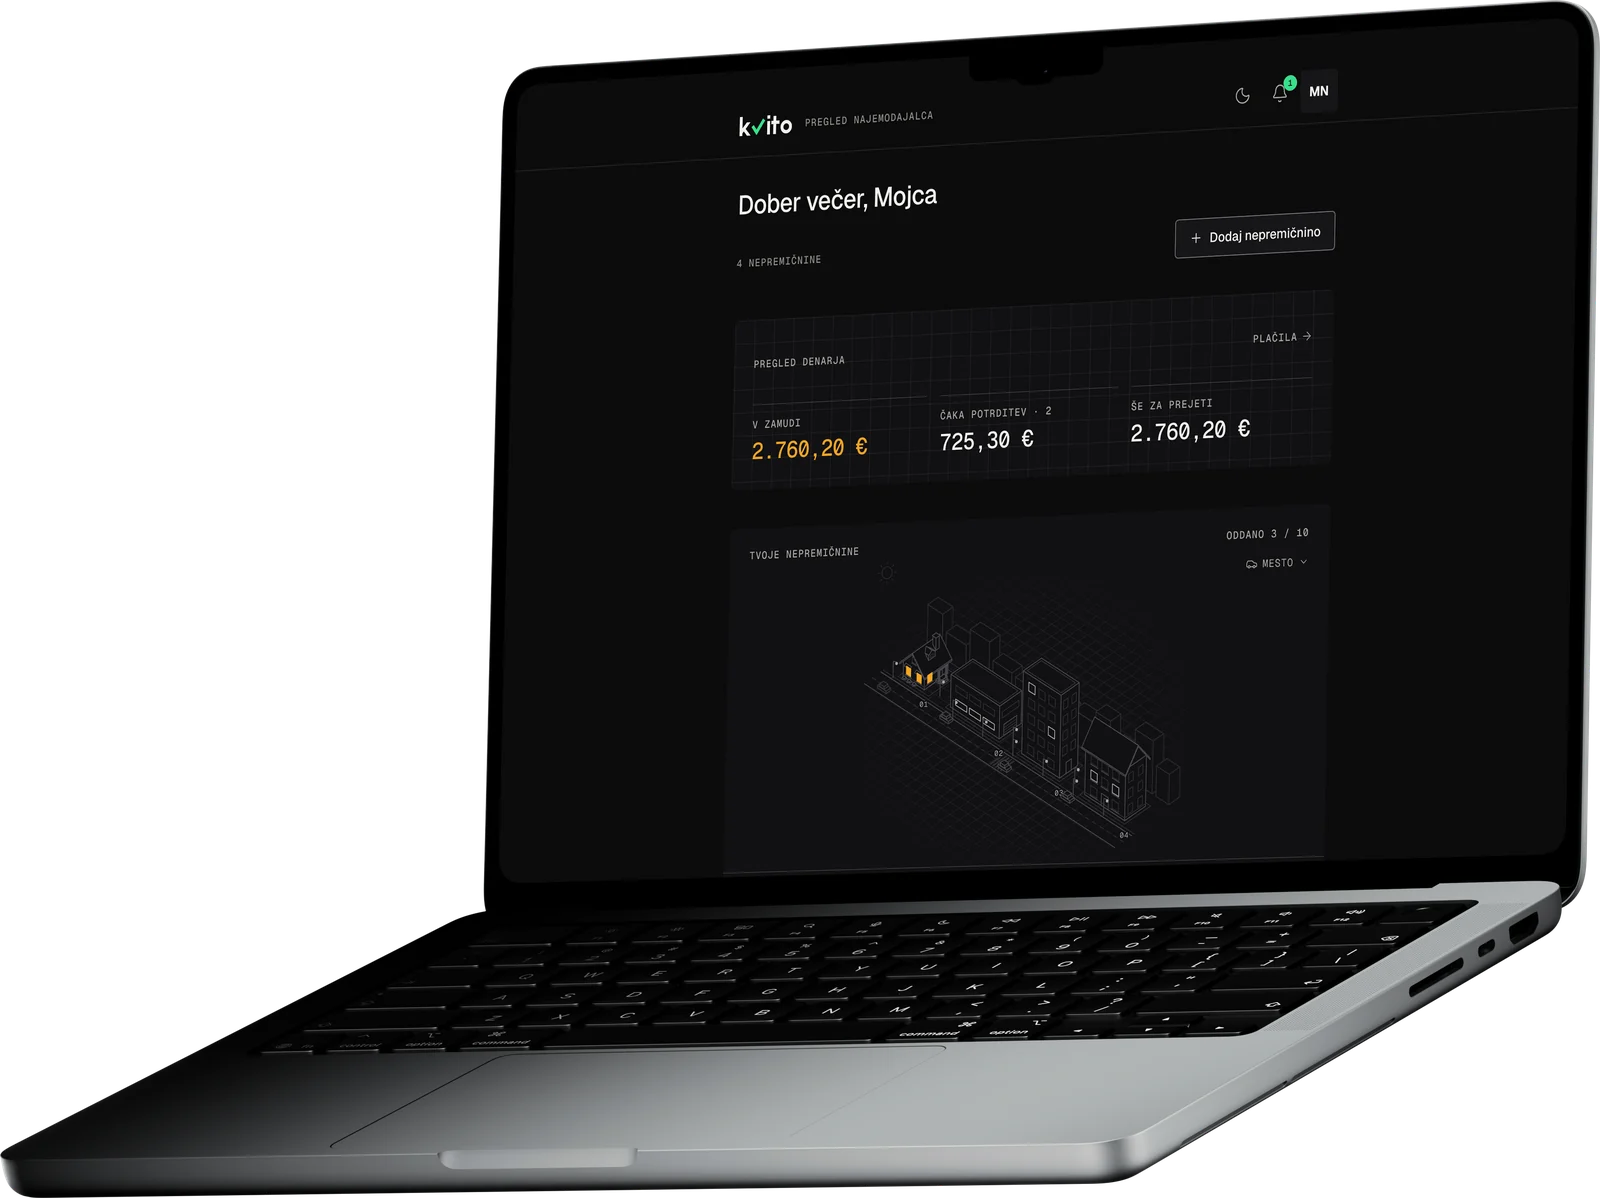
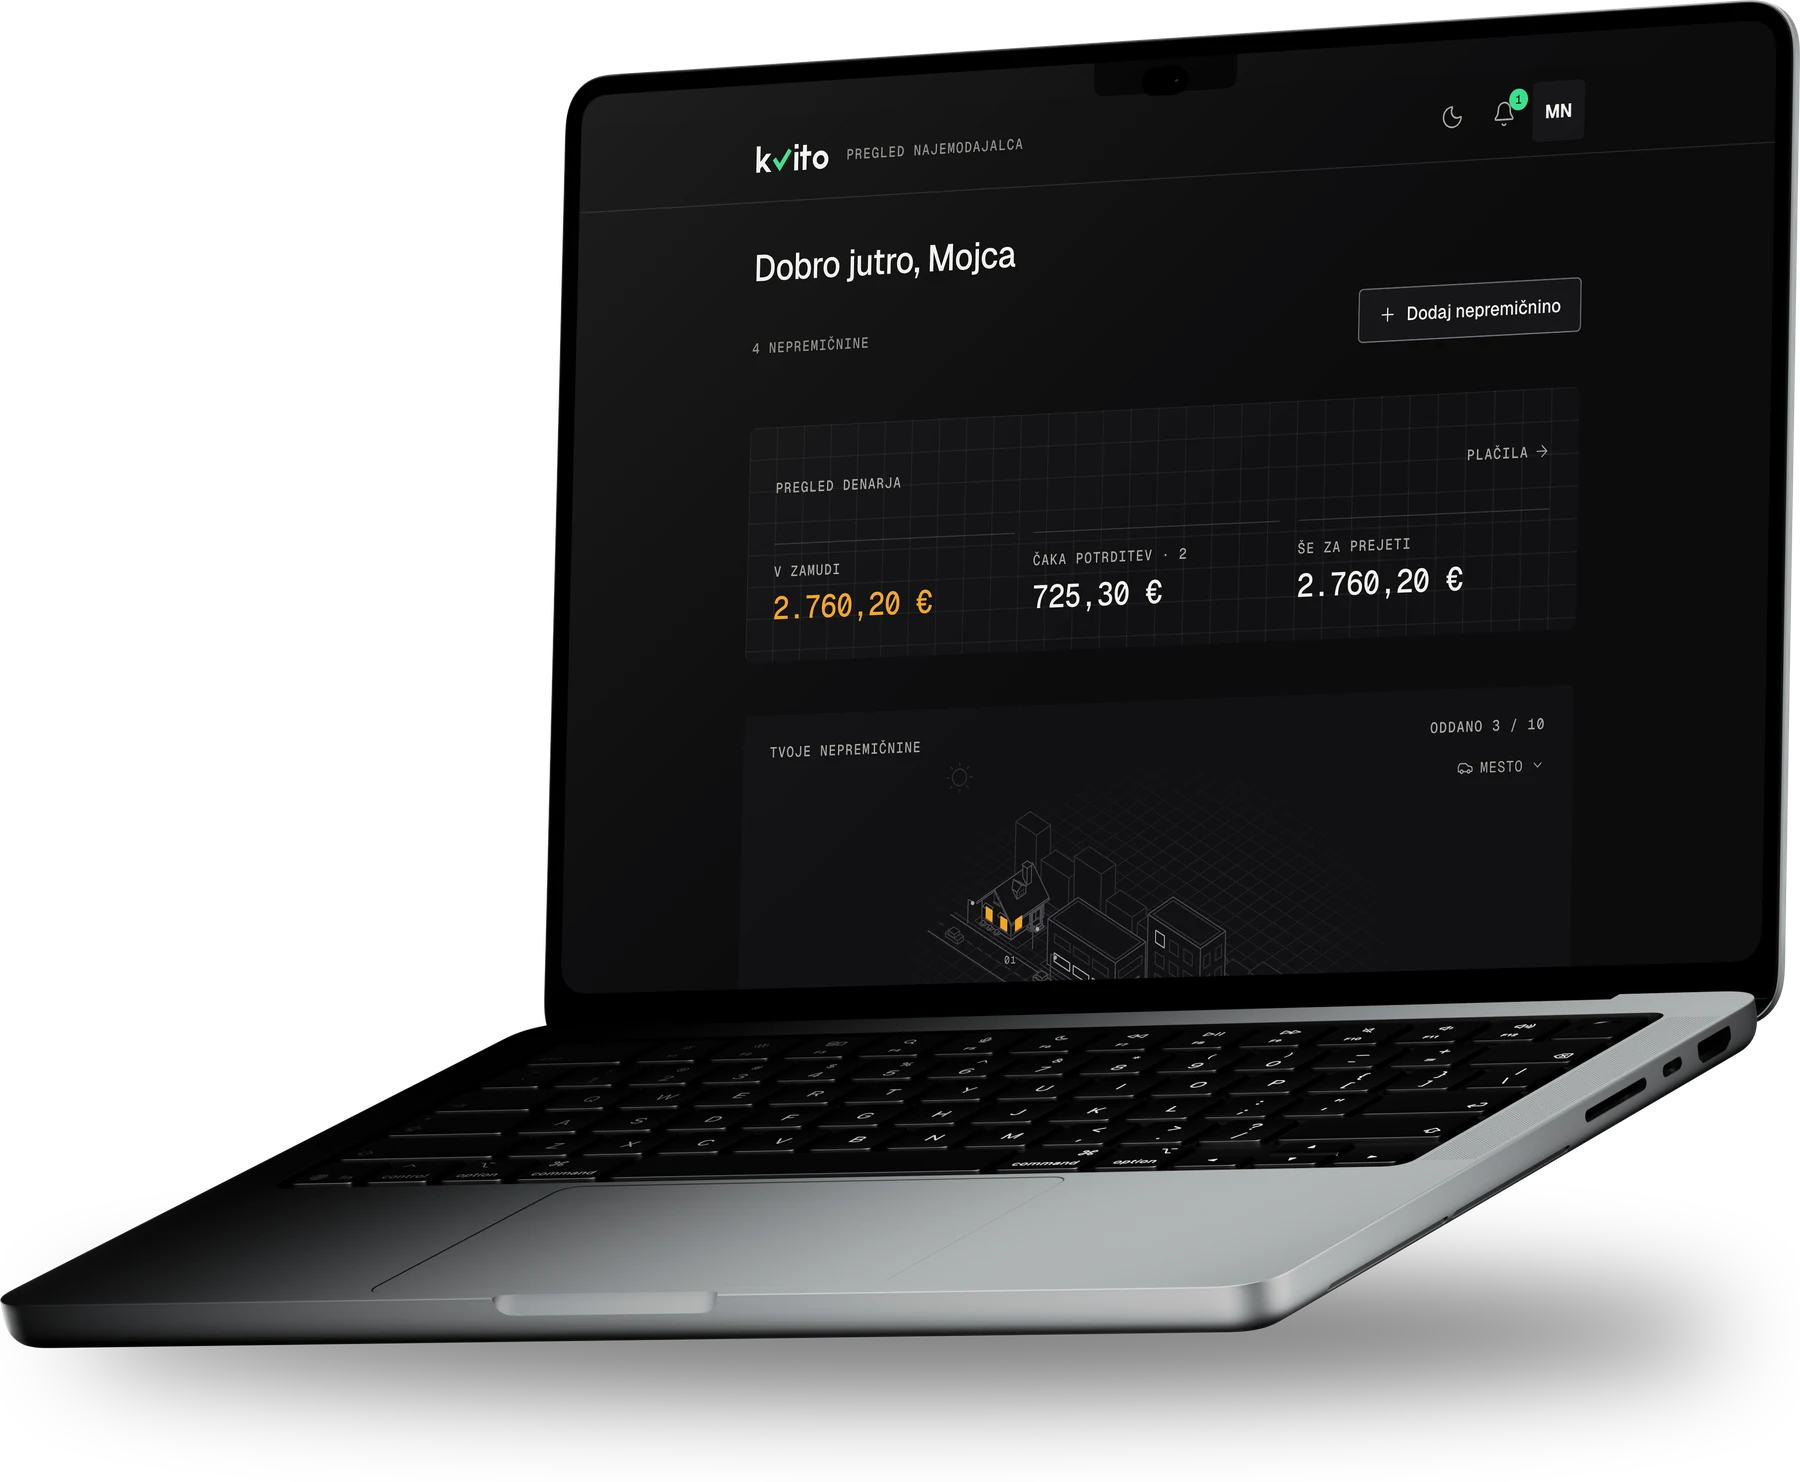
Spletna stran: lepša mockupa MacBook in iPhone v naslovnem delu
- Ostrejši posnetki v ločljivosti zaslonov (aplikacija zapolni zaslon)
- iPhone: iOS statusni pas (ura, signal, Wi-Fi, baterija) in otok; MacBook: menijski pas z zarezo
- Rahel odsev stekla, mehka senca pod prenosnikom in pod telefonom
- Večja kompozicija, manj prekrivanja, nevtralen sij za napravama

Claude-Session: https://claude.ai/code/session_01UkarzY3n7Vx4hURcDuZ81o

diff --git a/web/public/site.css b/web/public/site.css
@@ -382,9 +382,9 @@ h3 {
 }
 .hero-grid {
   display: grid;
-  grid-template-columns: minmax(0, 1fr) minmax(0, 1.15fr);
+  grid-template-columns: minmax(0, 0.92fr) minmax(0, 1.28fr);
   align-items: center;
-  gap: 48px;
+  gap: 32px;
   padding-top: 168px;
   padding-bottom: 88px;
 }
@@ -416,17 +416,32 @@ h3 {
 }
 .hero-visual {
   position: relative;
-  padding-right: 18%;
+  margin-right: -4%;
+  padding-right: 20%;
 }
-/* Device mockups (MacBook + iPhone) rendered from the PSD mockups with the app's screenshots. */
+/* Soft light behind the devices (neutral, not green: green means "settled"). */
+.hero-visual::before {
+  content: "";
+  position: absolute;
+  inset: 8% 6% 4% 4%;
+  border-radius: 50%;
+  background: radial-gradient(closest-side, rgb(255 255 255 / 0.07), transparent);
+  pointer-events: none;
+}
+html:not(.dark) .hero-visual::before {
+  background: radial-gradient(closest-side, rgb(255 255 255 / 0.65), transparent);
+}
+/* Device mockups (MacBook + iPhone) rendered from the PSD mockups with the app's screenshots,
+   status bar, glass glare and soft shadows baked in. */
 .hero-mac {
+  position: relative;
   width: 100%;
 }
 .hero-iphone {
   position: absolute;
-  right: 0;
-  bottom: 4%;
-  width: 27%;
+  right: -2%;
+  bottom: 2%;
+  width: 34%;
 }
 .browser {
   margin: 0;

diff --git a/web/public/index.html b/web/public/index.html
@@ -83,10 +83,10 @@
             </ul>
           </div>
           <div class="hero-visual" aria-hidden="true">
-            <img class="hero-mac only-dark" src="/img/macbook-dark.webp" alt="" width="1600" height="1198" fetchpriority="high" />
-            <img class="hero-mac only-light" src="/img/macbook-light.webp" alt="" width="1600" height="1198" />
-            <img class="hero-iphone only-dark" src="/img/iphone-dark.webp" alt="" width="520" height="1217" />
-            <img class="hero-iphone only-light" src="/img/iphone-light.webp" alt="" width="520" height="1217" />
+            <img class="hero-mac only-dark" src="/img/macbook-dark.webp" alt="" width="1800" height="1482" fetchpriority="high" />
+            <img class="hero-mac only-light" src="/img/macbook-light.webp" alt="" width="1800" height="1482" />
+            <img class="hero-iphone only-dark" src="/img/iphone-dark.webp" alt="" width="560" height="1161" />
+            <img class="hero-iphone only-light" src="/img/iphone-light.webp" alt="" width="560" height="1161" />
           </div>
         </div>
       </section>
